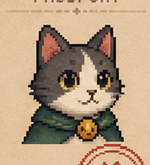
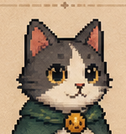
onboarding wallet stages

diff --git a/src/react/onboarding.css b/src/react/onboarding.css
@@ -117,8 +117,8 @@
 .onboarding-panel {
   position: relative;
   width: min(760px, calc(100vw - 32px));
-  max-height: min(640px, calc(100vh - 72px));
-  overflow: auto;
+  max-height: min(720px, calc(100vh - 40px));
+  overflow: visible;
   padding: 44px 42px 32px;
   border: 3px solid #704c2e;
   border-radius: 8px;
@@ -346,11 +346,15 @@
 }
 
 .passport-card-sample strong {
+  position: relative;
+  z-index: 2;
   color: #37271b;
   font-size: 14px;
 }
 
 .passport-card-sample small {
+  position: relative;
+  z-index: 2;
   margin-top: 16px;
   color: #9a7b54;
   font-size: 11px;
@@ -360,6 +364,7 @@
   position: absolute;
   right: 16px;
   bottom: 30px;
+  z-index: 1;
   display: grid;
   width: 56px;
   height: 56px;
@@ -846,6 +851,7 @@
 }
 
 .ready-card-copy {
+  min-height: 150px;
   padding: 14px;
   border: 2px solid #c5a16b;
   border-radius: 8px;
@@ -895,10 +901,10 @@
 
 .ready-seal {
   position: absolute;
-  right: 14px;
-  bottom: -12px;
-  width: 76px;
-  height: 98px;
+  right: -22px;
+  bottom: 78px;
+  width: 70px;
+  height: 90px;
   object-fit: contain;
   border: 0;
   transform: rotate(-5deg);
@@ -955,6 +961,7 @@
   .onboarding-panel-provider {
     width: 100%;
     max-height: calc(100vh - 24px - var(--safe-top) - var(--safe-bottom));
+    overflow: auto;
     padding: 42px 10px 12px;
   }
 
@@ -1076,6 +1083,11 @@
 
   .ready-passport {
     padding: 12px 12px 78px;
+  }
+
+  .ready-card-copy {
+    min-height: auto;
+    padding: 12px;
   }
 
   .ready-id-row {
